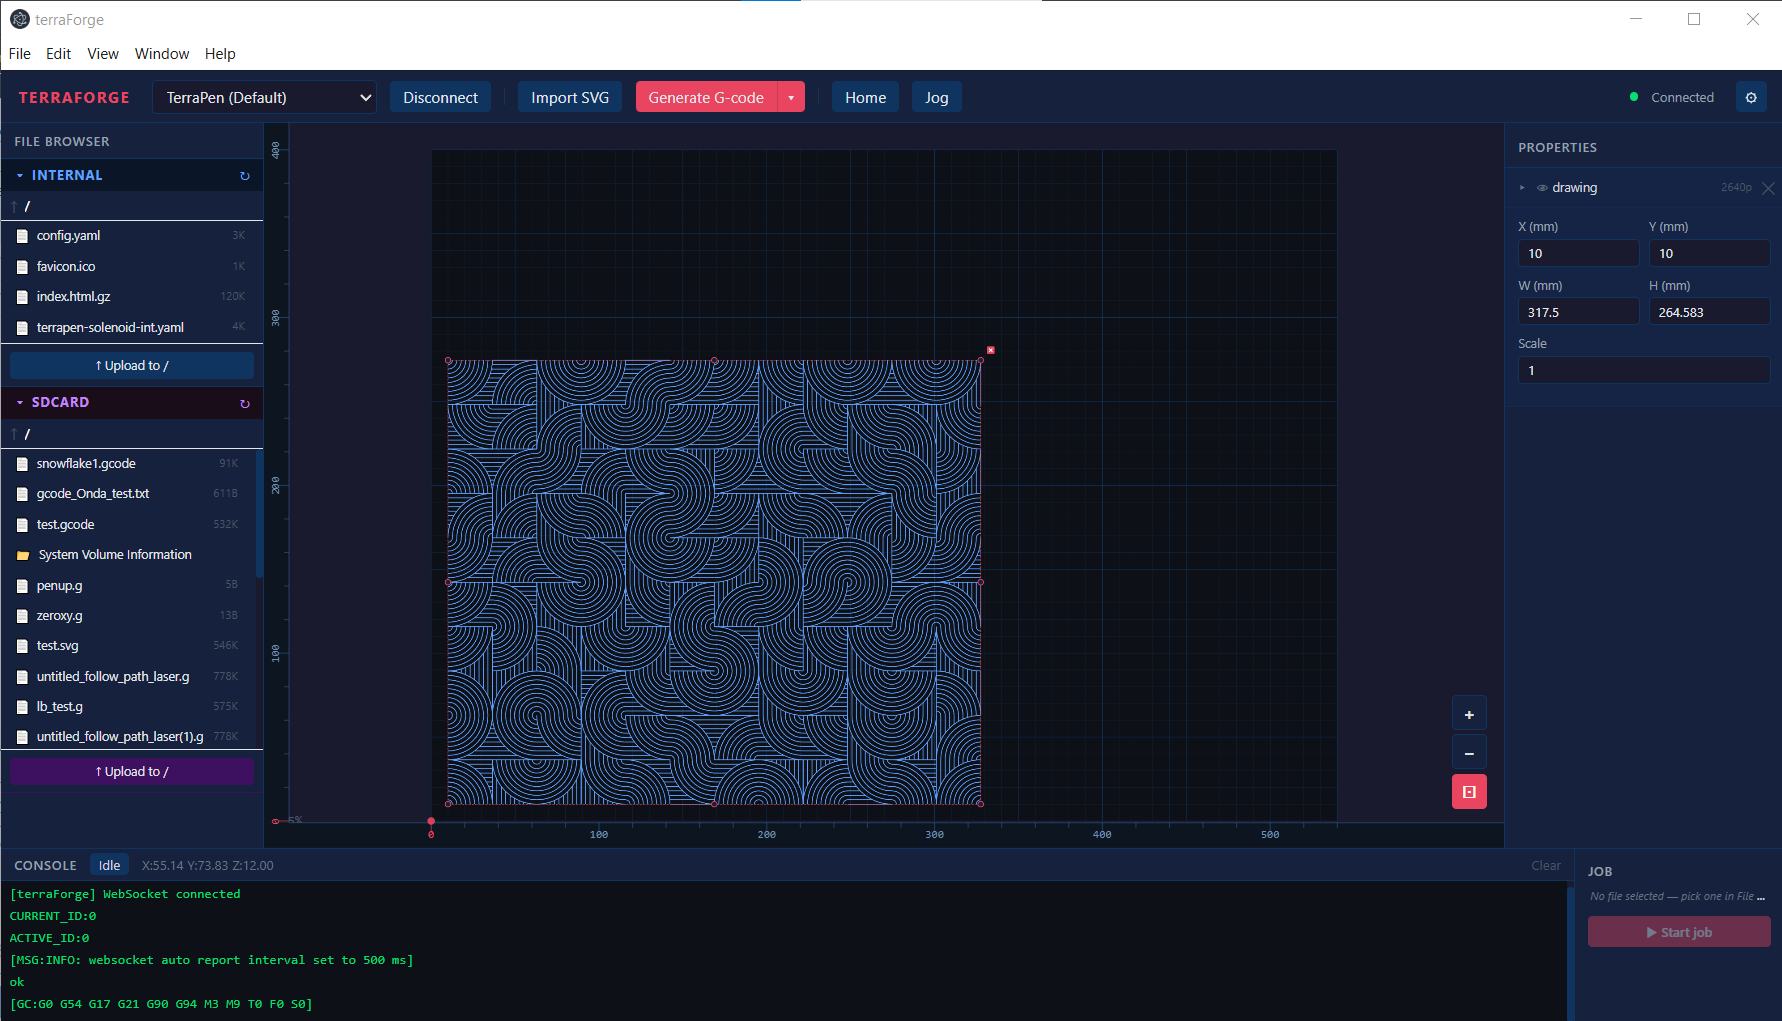
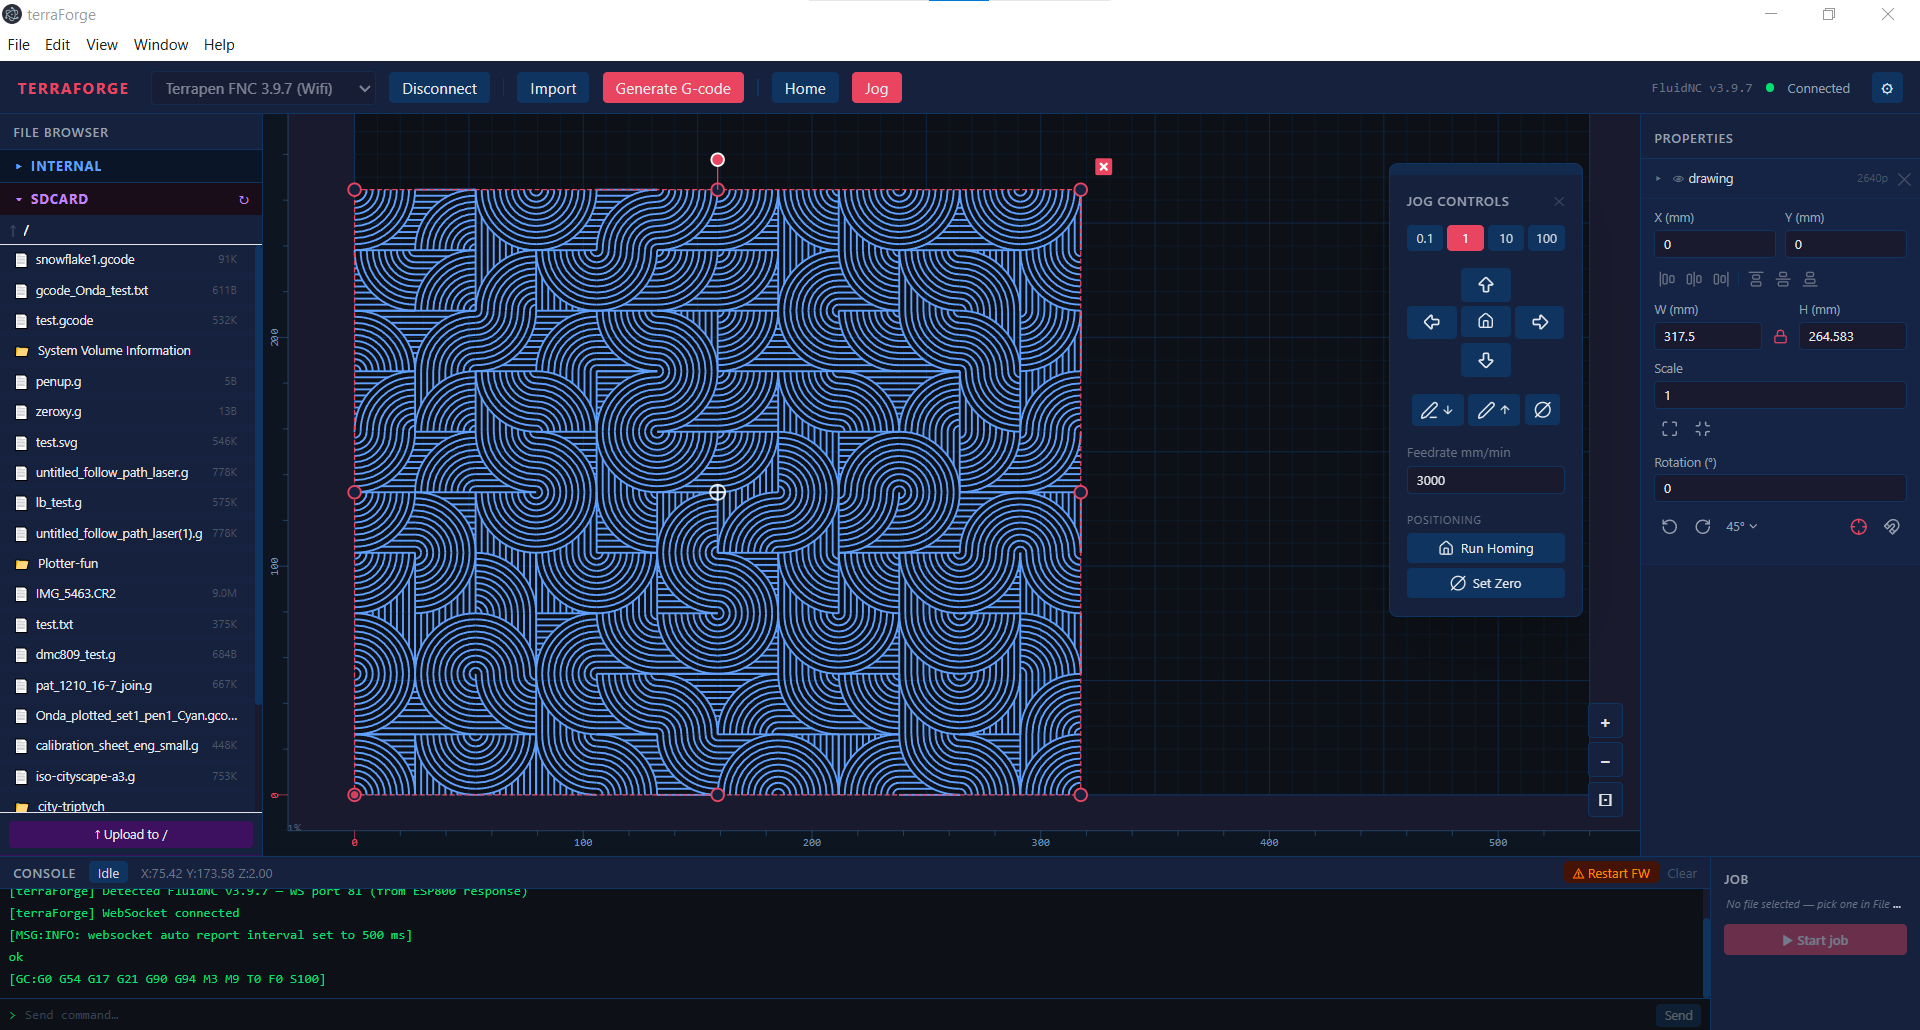
Allow file browser split resize and internal file system browser collapsed by default (#3)
* Allow file browser split resize - internal starts collapsed

* Update screenshots

diff --git a/src/renderer/src/components/FileBrowserPanel.tsx b/src/renderer/src/components/FileBrowserPanel.tsx
@@ -1,4 +1,4 @@
-import { useState, useEffect, useCallback } from "react";
+import { useState, useEffect, useCallback, useRef } from "react";
 import { v4 as uuid } from "uuid";
 import { useMachineStore } from "../store/machineStore";
 import { useTaskStore } from "../store/taskStore";
@@ -90,6 +90,9 @@ interface FsPaneProps {
   ) => void;
   upsertTask: ReturnType<typeof useTaskStore>["upsertTask"];
   taskType: "file-upload" | "file-download";
+  /** Controlled open state — parent owns this */
+  open: boolean;
+  onToggle: () => void;
 }
 
 function FsPane({
@@ -103,12 +106,13 @@ function FsPane({
   uploadFn,
   upsertTask,
   taskType,
+  open,
+  onToggle,
 }: FsPaneProps) {
   const [files, setFiles] = useState<RemoteFile[]>([]);
   const [path, setPath] = useState("/");
   const [loading, setLoading] = useState(false);
   const [error, setError] = useState<string | null>(null);
-  const [open, setOpen] = useState(true);
   const [previewing, setPreviewing] = useState<string | null>(null);
   const [pendingPreviewFile, setPendingPreviewFile] =
     useState<RemoteFile | null>(null);
@@ -216,7 +220,7 @@ function FsPane({
       : "text-[#c084fc] hover:text-white";
 
   return (
-    <div className={`flex flex-col border-b ${borderAccent}`}>
+    <div className={`flex flex-col h-full border-b ${borderAccent}`}>
       {pendingPreviewFile && (
         <ConfirmDialog
           title="Replace Toolpath?"
@@ -228,8 +232,8 @@ function FsPane({
       )}
       {/* Section header */}
       <div
-        className={`flex items-center justify-between px-3 py-1.5 cursor-pointer select-none ${bgAccent}`}
-        onClick={() => setOpen((v) => !v)}
+        className={`flex items-center justify-between px-3 py-1.5 cursor-pointer select-none shrink-0 ${bgAccent}`}
+        onClick={onToggle}
       >
         <span
           className={`text-[10px] font-bold uppercase tracking-widest ${labelColor}`}
@@ -252,10 +256,10 @@ function FsPane({
       </div>
 
       {!open ? null : (
-        <>
+        <div className="flex flex-col flex-1 min-h-0 overflow-hidden">
           {/* Breadcrumb + up */}
           <div
-            className={`flex items-center gap-1 px-2 py-1 border-b ${borderAccent}/50 min-h-[24px]`}
+            className={`shrink-0 flex items-center gap-1 px-2 py-1 border-b ${borderAccent}/50 min-h-[24px]`}
           >
             <button
               onClick={() => navigate(parentPath(path))}
@@ -269,7 +273,7 @@ function FsPane({
           </div>
 
           {/* File list */}
-          <div className="overflow-y-auto" style={{ maxHeight: 240 }}>
+          <div className="flex-1 overflow-y-auto">
             {!connected ? (
               <p className="text-[10px] text-gray-600 text-center py-4 px-3">
                 Not connected.
@@ -406,7 +410,7 @@ function FsPane({
           </div>
 
           {/* Upload footer */}
-          <div className={`px-2 py-1.5 border-t ${borderAccent}/50`}>
+          <div className={`shrink-0 px-2 py-1.5 border-t ${borderAccent}/50`}>
             <button
               onClick={handleUpload}
               disabled={!connected || serialMode}
@@ -422,7 +426,7 @@ function FsPane({
               ↑ Upload to {path}
             </button>
           </div>
-        </>
+        </div>
       )}
     </div>
   );
@@ -435,6 +439,42 @@ export function FileBrowserPanel() {
   const activeConfig = useMachineStore((s) => s.activeConfig);
   const serialMode = connected && activeConfig()?.connection.type === "usb";
   const upsertTask = useTaskStore((s) => s.upsertTask);
+
+  // Collapsed state — internal starts collapsed, sdcard starts open
+  const [internalOpen, setInternalOpen] = useState(false);
+  const [sdOpen, setSdOpen] = useState(true);
+
+  // Pixel height of the internal pane when both are open
+  const [splitPx, setSplitPx] = useState(200);
+  const containerRef = useRef<HTMLDivElement>(null);
+  const dragRef = useRef<{ startY: number; startPx: number } | null>(null);
+
+  const bothOpen = internalOpen && sdOpen;
+
+  const onDragStart = (e: React.MouseEvent) => {
+    e.preventDefault();
+    dragRef.current = { startY: e.clientY, startPx: splitPx };
+
+    const onMouseMove = (ev: MouseEvent) => {
+      if (!dragRef.current) return;
+      const delta = ev.clientY - dragRef.current.startY;
+      const containerH = containerRef.current?.clientHeight ?? 400;
+      const newPx = Math.max(
+        80,
+        Math.min(dragRef.current.startPx + delta, containerH - 80),
+      );
+      setSplitPx(newPx);
+    };
+
+    const onMouseUp = () => {
+      dragRef.current = null;
+      document.removeEventListener("mousemove", onMouseMove);
+      document.removeEventListener("mouseup", onMouseUp);
+    };
+
+    document.addEventListener("mousemove", onMouseMove);
+    document.addEventListener("mouseup", onMouseUp);
+  };
 
   const uploadFn = (
     localPath: string,
@@ -454,6 +494,14 @@ export function FileBrowserPanel() {
       .catch(console.error);
   };
 
+  const sharedProps = {
+    connected,
+    serialMode,
+    uploadFn,
+    upsertTask,
+    taskType: "file-upload" as const,
+  };
+
   return (
     <div className="flex flex-col h-full">
       {/* Title */}
@@ -463,34 +511,61 @@ export function FileBrowserPanel() {
         </span>
       </div>
 
-      <div className="flex-1 overflow-y-auto">
-        {/* Internal filesystem */}
-        <FsPane
-          label="internal"
-          accentColor="blue"
-          connected={connected}
-          serialMode={serialMode}
-          source="fs"
-          listFn={(p) => window.terraForge.fluidnc.listFiles(p)}
-          deleteFn={(p) => window.terraForge.fluidnc.deleteFile(p, "fs")}
-          uploadFn={uploadFn}
-          upsertTask={upsertTask}
-          taskType="file-upload"
-        />
+      {/* Pane container */}
+      <div
+        ref={containerRef}
+        className="flex-1 flex flex-col overflow-hidden min-h-0"
+      >
+        {/* Internal filesystem pane */}
+        <div
+          className="flex flex-col overflow-hidden"
+          style={
+            bothOpen
+              ? { height: splitPx, flexShrink: 0 }
+              : internalOpen
+                ? { flex: 1, minHeight: 0 }
+                : { flexShrink: 0 }
+          }
+        >
+          <FsPane
+            {...sharedProps}
+            label="internal"
+            accentColor="blue"
+            source="fs"
+            listFn={(p) => window.terraForge.fluidnc.listFiles(p)}
+            deleteFn={(p) => window.terraForge.fluidnc.deleteFile(p, "fs")}
+            open={internalOpen}
+            onToggle={() => setInternalOpen((v) => !v)}
+          />
+        </div>
 
-        {/* SD card filesystem */}
-        <FsPane
-          label="sdcard"
-          accentColor="purple"
-          connected={connected}
-          serialMode={serialMode}
-          source="sd"
-          listFn={(p) => window.terraForge.fluidnc.listSDFiles(p)}
-          deleteFn={(p) => window.terraForge.fluidnc.deleteFile(p, "sd")}
-          uploadFn={uploadFn}
-          upsertTask={upsertTask}
-          taskType="file-upload"
-        />
+        {/* Drag handle — only visible when both panes are open */}
+        {bothOpen && (
+          <div
+            onMouseDown={onDragStart}
+            className="shrink-0 h-2 flex items-center justify-center cursor-row-resize bg-[#0a1020] hover:bg-[#0f3460] group select-none"
+            title="Drag to resize"
+          >
+            <div className="w-10 h-0.5 rounded bg-gray-700 group-hover:bg-[#e94560] transition-colors" />
+          </div>
+        )}
+
+        {/* SD card filesystem pane */}
+        <div
+          className="flex flex-col overflow-hidden"
+          style={sdOpen ? { flex: 1, minHeight: 0 } : { flexShrink: 0 }}
+        >
+          <FsPane
+            {...sharedProps}
+            label="sdcard"
+            accentColor="purple"
+            source="sd"
+            listFn={(p) => window.terraForge.fluidnc.listSDFiles(p)}
+            deleteFn={(p) => window.terraForge.fluidnc.deleteFile(p, "sd")}
+            open={sdOpen}
+            onToggle={() => setSdOpen((v) => !v)}
+          />
+        </div>
       </div>
     </div>
   );

diff --git a/tests/component/FileBrowserPanel.test.tsx b/tests/component/FileBrowserPanel.test.tsx
@@ -48,8 +48,10 @@ describe("FileBrowserPanel", () => {
     expect(msgs.length).toBeGreaterThanOrEqual(1);
   });
 
-  it("renders upload buttons for both filesystems", () => {
+  it("renders upload buttons for both filesystems", async () => {
     render(<FileBrowserPanel />);
+    // Internal starts collapsed — open it by clicking its section header
+    await userEvent.click(screen.getByText(/internal/i));
     const btns = screen.getAllByText(/Upload to \//);
     expect(btns).toHaveLength(2);
   });
@@ -79,10 +81,15 @@ describe("FileBrowserPanel", () => {
     ]);
     useMachineStore.setState({ connected: true });
     render(<FileBrowserPanel />);
+    // SD card pane (open by default)
+    await waitFor(() => {
+      expect(screen.getByText("test.gcode")).toBeInTheDocument();
+    });
+    // Open the internal pane to see its files
+    await userEvent.click(screen.getByText(/internal/i));
     await waitFor(() => {
       expect(screen.getByText("config.yaml")).toBeInTheDocument();
     });
-    expect(screen.getByText("test.gcode")).toBeInTheDocument();
   });
 
   it("shows directory entries with folder icon", async () => {
